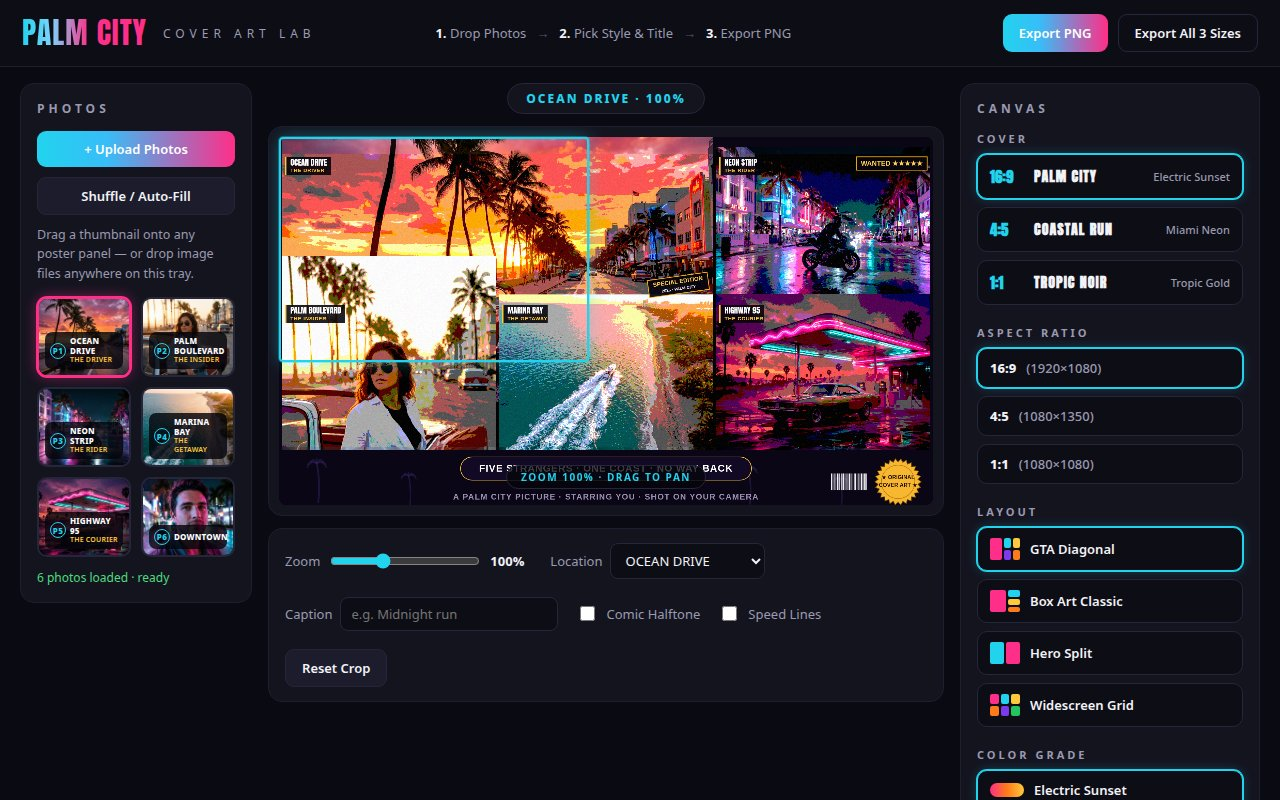
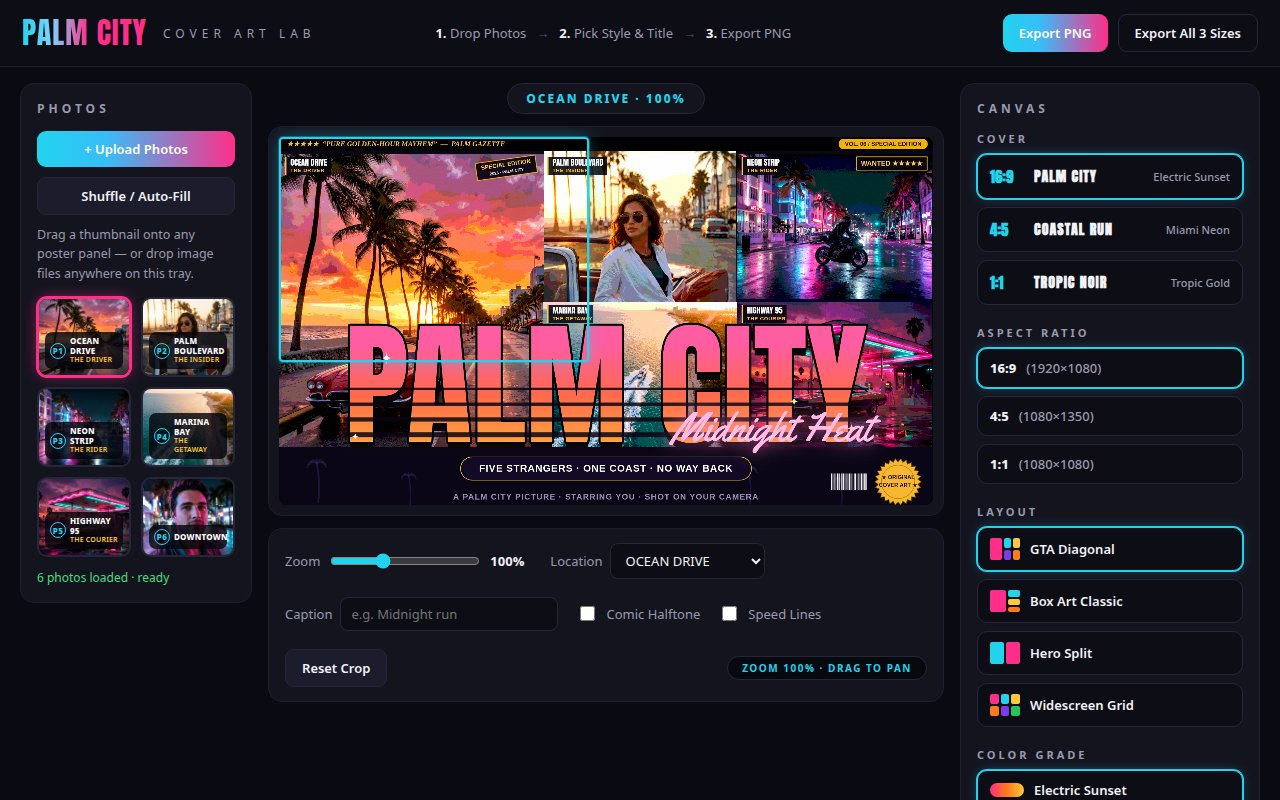
Fix studio canvas (v11): render title/subtitle/quote bar in the studio preview, move ZOOM pill off the tagline, normalize painterly amount
- poster.js: translate studio short ids (sunset/diagonal) to engine ids
  (electric-sunset/gta-diagonal) so the studio preview draws the same
  poster the export draws; defensive grade fallback in drawTitle/drawQuoteBar
- poster.js: applyPainterly normalizes amounts >1 as percentages (35 -> 0.35)
  so studio panels render photographic like the exports, not full posterize
- index.html/style.css: move .pan-indicator out of #canvas-wrap into the
  controls bar so it no longer covers the Tagline Pill
- re-shot 01-studio-ui.jpg only; 02/03/04 byte-identical

Changed region(s): [[0.2188, 0.1562, 0.75, 0.625], [0.5625, 0.8125, 0.7188, 0.8438]]

diff --git a/app/poster.js b/app/poster.js
@@ -322,7 +322,7 @@
 
   function applyPainterly(ctx, rect, amount) {
     if (!amount || amount <= 0) return;
-    amount = Math.max(0, Math.min(1, amount));
+    amount = Math.max(0, Math.min(1, amount > 1 ? amount / 100 : amount));
     var x = Math.max(0, Math.floor(rect.x)), y = Math.max(0, Math.floor(rect.y));
     var w = Math.min(Math.floor(rect.w), ctx.canvas.width - x);
     var h = Math.min(Math.floor(rect.h), ctx.canvas.height - y);
@@ -349,7 +349,7 @@
   /* ------------------------------------------------------------------ */
 
   function drawQuoteBar(ctx, cover, W, qbH) {
-    var g = GRADES[cover.grade];
+    var g = GRADES[cover.grade] || GRADES['electric-sunset'];
     ctx.fillStyle = '#000000';
     ctx.fillRect(0, 0, W, qbH);
     ctx.textBaseline = 'middle';
@@ -481,7 +481,7 @@
   /* 3-layer title. Returns { titleBaseline, subBaseline, subTop } so the
    * caller can verify the clearance above the tagline pill. */
   function drawTitle(ctx, cover, W, pillTop, minTitleTop) {
-    var g = GRADES[cover.grade];
+    var g = GRADES[cover.grade] || GRADES['electric-sunset'];
     var title = cover.title;
     var cx = W / 2;
     ctx.textAlign = 'center';
@@ -662,6 +662,15 @@
     var cover = getCover(coverId);
     var gradeId = opts.grade || cover.grade;
     var layoutId = opts.layout || cover.layout;
+    /* The studio UI sends short ids (sunset / diagonal) while this engine
+     * keys grades and layouts by their long names. Translate the short
+     * ids here so the studio preview draws exactly the same poster the
+     * export draws, instead of falling back to another layout or an
+     * unknown grade. */
+    var gradeAlias = { 'sunset': 'electric-sunset', 'neon': 'miami-neon', 'gold': 'tropic-gold', 'noir': 'midnight-noir' };
+    var layoutAlias = { 'diagonal': 'gta-diagonal', 'classic': 'box-art-classic', 'split': 'hero-split', 'grid': 'widescreen-grid' };
+    if (gradeAlias[gradeId]) gradeId = gradeAlias[gradeId];
+    if (layoutAlias[layoutId]) layoutId = layoutAlias[layoutId];
     var grade = GRADES[gradeId] || GRADES[cover.grade];
     var W = cover.width, H = cover.height;
     var renderCoverCfg = Object.assign({}, cover, { grade: gradeId, layout: layoutId });

diff --git a/app/index.html b/app/index.html
@@ -42,7 +42,6 @@
       <div id="canvas-wrap" class="canvas-wrap">
         <canvas id="cover-canvas" width="1920" height="1080"></canvas>
         <div id="selection-frame" class="selection-frame" aria-hidden="true"></div>
-        <div class="pan-indicator"><span id="pan-label">ZOOM 100% &middot; DRAG TO PAN</span></div>
         <div id="canvas-loading" class="canvas-loading"><span>Loading photos&hellip;</span></div>
       </div>
       <div class="stage-controls">
@@ -66,6 +65,7 @@
         <label class="ctl ctl-check"><input id="chk-halftone" type="checkbox"> Comic Halftone</label>
         <label class="ctl ctl-check"><input id="chk-speedlines" type="checkbox"> Speed Lines</label>
         <button id="btn-reset-crop" class="btn btn-dark" type="button">Reset Crop</button>
+        <span class="pan-indicator"><span id="pan-label">ZOOM 100% &middot; DRAG TO PAN</span></span>
       </div>
     </section>
 

diff --git a/app/style.css b/app/style.css
@@ -205,10 +205,10 @@ input, select { font-family: inherit; }
   box-shadow: 0 0 0 1px rgba(34, 211, 238, .35), 0 0 18px rgba(34, 211, 238, .35);
   pointer-events: none;
 }
+/* Zoom/pan readout lives in the controls bar under the canvas now, never
+ * overlaid on the poster — it used to sit on top of the tagline pill. */
 .pan-indicator {
-  position: absolute;
-  left: 50%; bottom: 26px;
-  transform: translateX(-50%);
+  margin-left: auto;
   background: rgba(5, 5, 12, .78);
   border: 1px solid var(--line);
   border-radius: 999px;
